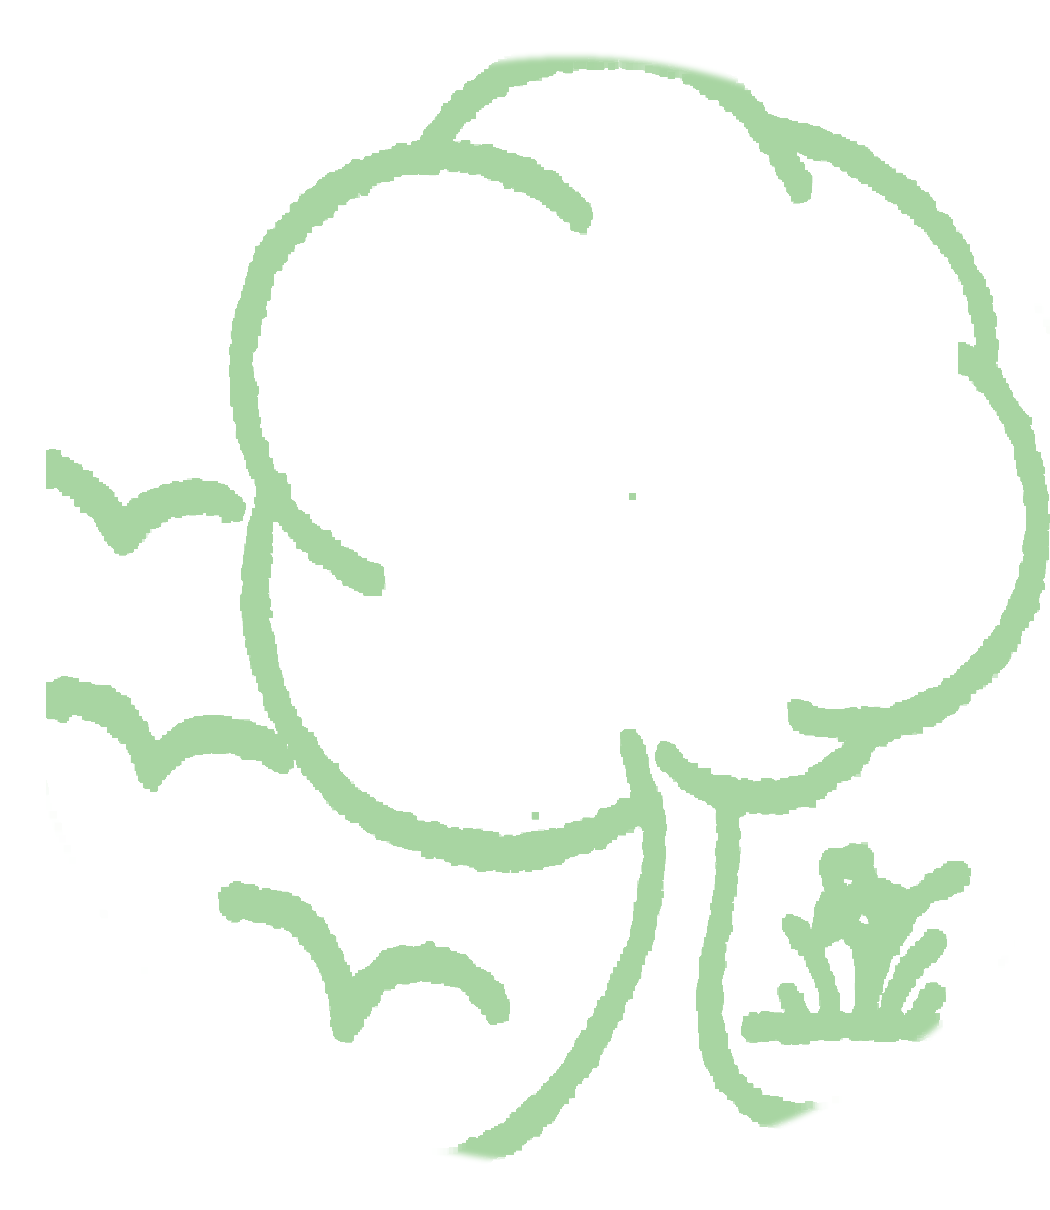
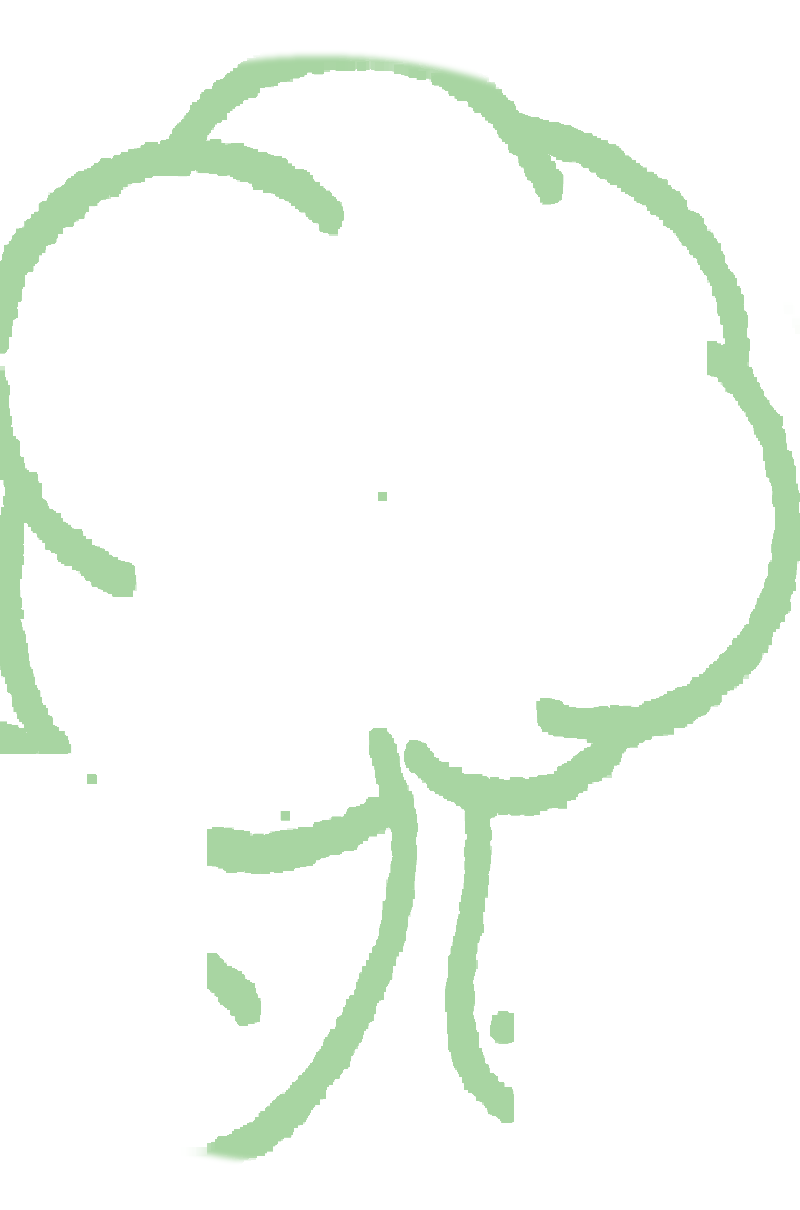
polish: side-by-side hero layout, simplify nav/footer mark
Hero: seal moves next to the headline text (row layout on lg+,
stacked centered on mobile) instead of stacked above it - reads
cleaner and lets the text claim more horizontal space.

Nav/footer mark: drops the birds and grass, matching the favicon's
canopy+trunk-only treatment, since they added visual noise without
being legible at this size anyway. All three small-scale placements
(favicon, navbar, footer) now use the same simplified silhouette;
the full detailed seal is unchanged on the homepage hero and About
page badge, where it's large enough to read.

Claude-Session: https://claude.ai/code/session_014tztRu1gvvWf8Eb9F6s3eQ

Changed region(s): [[0.0, 0.0306, 1.0, 0.9785], [0.9688, 0.3975, 1.0, 0.4587]]

diff --git a/src/pages/Home.tsx b/src/pages/Home.tsx
@@ -68,38 +68,40 @@ export default function Home() {
         <div className="h-16 lg:h-20 flex-shrink-0" aria-hidden="true" />
 
         <div className="relative z-10 flex-1 flex items-center justify-center px-4">
-          <div className="text-center text-white max-w-4xl mx-auto">
+          <div className="flex flex-col lg:flex-row items-center gap-10 lg:gap-14 max-w-5xl mx-auto text-center lg:text-left">
             <img
               src={oyrgcSealWhite}
               alt="Seal of the Old York Road Garden Club, established 1935"
-              className="w-40 sm:w-52 lg:w-60 h-auto mx-auto mb-8"
+              className="w-40 sm:w-48 lg:w-56 h-auto flex-shrink-0"
             />
-            <p className="text-mint text-sm font-medium tracking-[0.25em] uppercase mb-6">
-              Jenkintown &amp; Abington, Pennsylvania
-            </p>
-            <h1 className="font-serif text-5xl sm:text-6xl lg:text-7xl font-bold leading-tight mb-6">
-              Cultivating Beauty,
-              <br />
-              <em className="not-italic text-mint">Building Community</em>
-            </h1>
-            <p className="text-white/85 text-lg sm:text-xl max-w-2xl mx-auto leading-relaxed mb-10">
-              For over seven decades, we've united passionate gardeners to enrich
-              our neighborhoods through horticultural excellence, civic
-              beautification, and lifelong friendship.
-            </p>
-            <div className="flex flex-col sm:flex-row gap-4 justify-center">
-              <Link
-                to="/events"
-                className="px-8 py-3.5 bg-gold hover:bg-gold/90 text-white font-semibold rounded-md transition-colors shadow-lg"
-              >
-                Upcoming Events
-              </Link>
-              <Link
-                to="/about"
-                className="px-8 py-3.5 bg-white/15 hover:bg-white/25 border border-white/40 text-white font-semibold rounded-md transition-colors backdrop-blur-sm"
-              >
-                Learn About Us
-              </Link>
+            <div className="text-white">
+              <p className="text-mint text-sm font-medium tracking-[0.25em] uppercase mb-6">
+                Jenkintown &amp; Abington, Pennsylvania
+              </p>
+              <h1 className="font-serif text-5xl sm:text-6xl lg:text-7xl font-bold leading-tight mb-6">
+                Cultivating Beauty,
+                <br />
+                <em className="not-italic text-mint">Building Community</em>
+              </h1>
+              <p className="text-white/85 text-lg sm:text-xl max-w-2xl mx-auto lg:mx-0 leading-relaxed mb-10">
+                For over seven decades, we've united passionate gardeners to enrich
+                our neighborhoods through horticultural excellence, civic
+                beautification, and lifelong friendship.
+              </p>
+              <div className="flex flex-col sm:flex-row gap-4 justify-center lg:justify-start">
+                <Link
+                  to="/events"
+                  className="px-8 py-3.5 bg-gold hover:bg-gold/90 text-white font-semibold rounded-md transition-colors shadow-lg"
+                >
+                  Upcoming Events
+                </Link>
+                <Link
+                  to="/about"
+                  className="px-8 py-3.5 bg-white/15 hover:bg-white/25 border border-white/40 text-white font-semibold rounded-md transition-colors backdrop-blur-sm"
+                >
+                  Learn About Us
+                </Link>
+              </div>
             </div>
           </div>
         </div>
